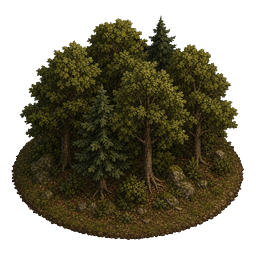
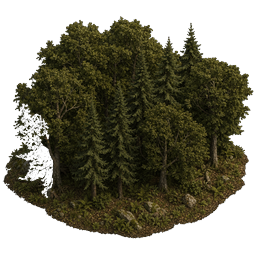
Restyle forest sprite as isometric cutout like buildings
Replace the forest marker with a photoreal isometric grove cutout
(transparent background), matching farm/barracks icon treatment.

diff --git a/src/game/renderer.ts b/src/game/renderer.ts
@@ -330,9 +330,9 @@ export class Renderer {
         ctx.save();
         pathHex(ctx, x, y);
         ctx.clip();
-        ctx.fillStyle = 'rgba(22, 64, 34, 0.45)';
+        ctx.fillStyle = 'rgba(22, 64, 34, 0.28)';
         ctx.fill();
-        drawForestFigurine(ctx, x, y + 2, FOREST_HEX_FILL_SIZE);
+        drawForestFigurine(ctx, x, y + 1, FOREST_HEX_FILL_SIZE);
         ctx.restore();
       }
       if (cell.building) {
